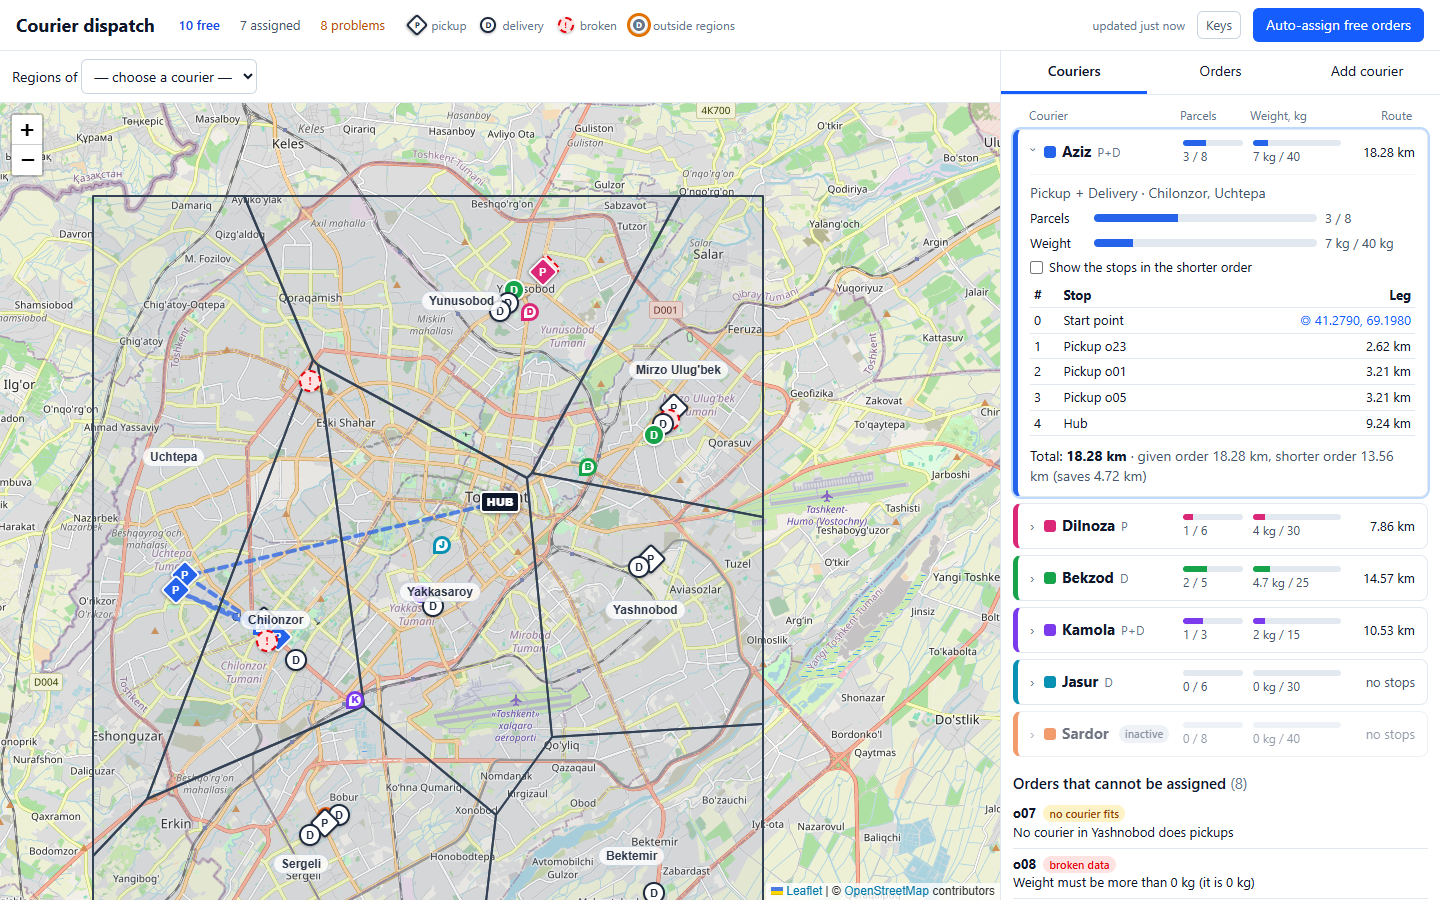
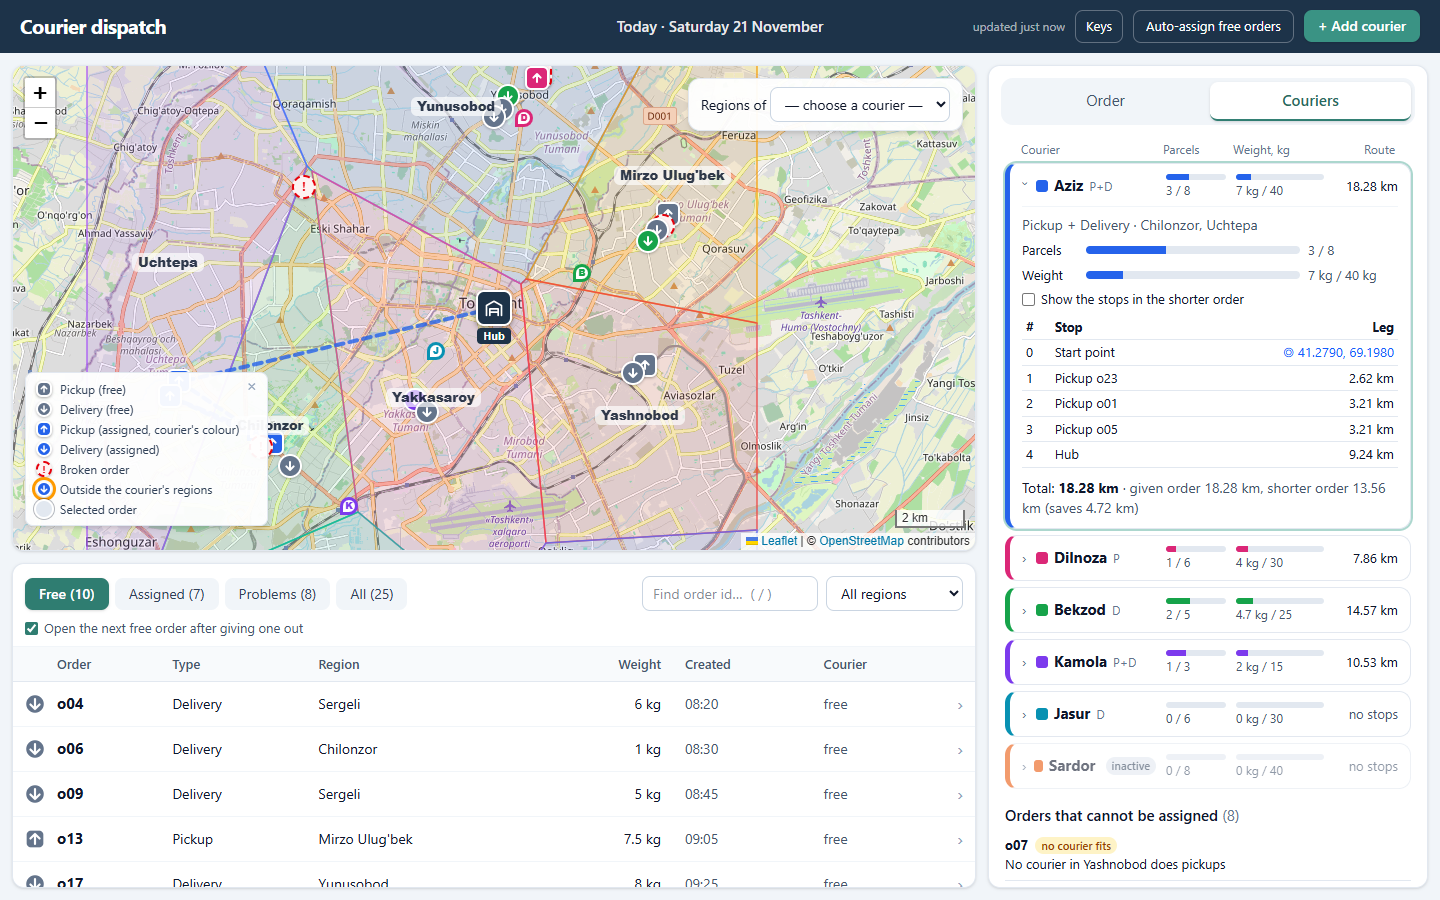
README and after screenshots for the new look

diff --git a/README.md b/README.md
@@ -50,16 +50,16 @@ cd backend && go test ./...
 
 ## Page addresses
 
-Each view of the page has its own link, so it can be shared, reloaded or reached with the browser's back button:
+Each view of the page has its own link, so it can be shared, reloaded or reached with the browser's back button. The order table's filter stays in the query string on every one of them:
 
 | Address | What it shows |
 | --- | --- |
-| `/couriers` | courier panel (`/` and unknown addresses redirect here) |
+| `/couriers` | courier panel |
 | `/couriers/c1` | courier panel, with that courier's route drawn on the map |
-| `/couriers/new` | the add-courier form; clicks on the map set the start point |
-| `/orders` | order list: free orders, oldest first |
+| `/couriers/new` | the add-courier form ("+ Add courier" in the header); clicks on the map set the start point |
+| `/orders` | no order open; the table under the map shows free orders, oldest first (`/` and unknown addresses redirect here) |
 | `/orders?show=problem&region=Chilonzor&q=o1` | the list's filter (`free`, `taken`, `problem`, `all`), region and id search |
-| `/orders/o12` | order list with that order open, ready to assign |
+| `/orders/o12` | that order open in the right panel, ready to assign |
 
 The Go server sends the page for any address that is not a file or `/api/...`, so these links also work after a reload in the Docker build.
 
@@ -149,13 +149,13 @@ Other things in the data:
 - **Auto-assign** (button at the top right). It takes every free, valid order, oldest first, and gives it to the allowed courier for whom it is **nearest**. Orders already assigned are not touched. Orders it cannot place are listed with the reason: either the permanent reason (region, kind, inactive, weight) or "Every courier allowed to take it is full: …" with each courier's limit.
   - **How "nearest" is chosen:** the courier whose route grows the least, in km, when the order is added at the end of their pickups or deliveries. I picked this over "closest start point" because it accounts for where the courier already has to go, including the trip to the hub. For a courier with no orders it is roughly start → order → hub. Ties go to the courier who comes first in the list.
   - It is greedy and does not look ahead: an early order may take the last free space that a later order needed more.
-- **Reassign:** in the open order, click another courier under "Move to", or press "Take off". Undo puts it back.
+- **Reassign:** in the open order, choose another courier under "Move to" and press "Move to …", or press "Take off". Undo puts it back.
 - **Better routes:** each courier card shows the km in the given order and in a shorter order. A checkbox switches the stop list and the map line to the shorter order. Pickups stay before the hub and deliveries after it. Each part is solved exactly by trying every order when it has 7 stops or fewer, and otherwise by nearest neighbour followed by 2-opt. The shorter order is only shown, never saved: the rule says the route follows the order given.
 - **Docker:** `docker compose up --build` builds the page and the server into one image.
 
 ## Dispatcher page improvements
 
-The follow-up task asked for a page that a dispatcher can use all working day: better layout, easier reading, and fewer steps to assign an order. These are the changes and the reason for each one.
+The follow-up task asked for a page that a dispatcher can use all working day: better layout, easier reading, and fewer steps to assign an order. These are the changes and the reason for each one. The look (dark header, map over the order table, order panel with courier cards and one big button) follows mockups I was given. The texts stay in English like the rest of the project, including the server's messages.
 
 ### Before and after
 
@@ -172,39 +172,42 @@ The data is the same in both: seven orders given out by hand ([how the screensho
 
 | Way of working | Before | After |
 | --- | --- | --- |
-| Going through the free orders | Orders tab → scroll to the order → click it → open the courier select → pick a courier → Assign: **5 actions per order** | the next free order is already open → click a courier or press its number: **1 action per order** |
-| From a pin on the map | pin → open the select → pick a courier → Assign: **4** | pin → click a courier: **2** |
+| Going through the free orders | Orders tab → scroll to the order → click it → open the courier select → pick a courier → Assign: **5 actions per order** | the next free order is already open and the nearest courier already chosen → "Give to Bekzod" or Enter: **1 action per order** |
+| From a pin on the map | pin → open the select → pick a courier → Assign: **4** | pin → "Give to …": **2** (3 when choosing someone other than the nearest) |
 | Undoing a wrong click | find the order → open the select → pick the old courier → Move: **4** | Undo in the message, or the U key: **1** |
 
 ### Fewer steps
 
-1. **The courier select became a list of couriers to click.** It is the biggest change. The couriers allowed to take the order are buttons, and one click assigns the order. Each button shows the km the order adds to that courier's route and the load the courier would have after it. The courier who is nearest by the auto-assign rule (least km added) is on top and marked "nearest". Couriers who cannot take the order are folded under "N couriers cannot take it", each with the server's reason. They can still be clicked, and the server then refuses in its own words, as before.
-   - The list comes from a new endpoint, `GET /api/orders/{id}/candidates`. The server works it out with the same `CanTake` and the same km function as auto-assign. Before, the page repeated the rules in TypeScript (`quickCheck`) to show its hints. That copy is gone, so a hint can no longer disagree with the server. Auto-assign now picks the courier marked "nearest" in this list, so the two always agree (`domain.Candidates`).
-2. **The next free order opens by itself.** When an order gets its first courier, the next free order that someone can take opens, further down the list the dispatcher is looking at (so a region filter is respected). A checkbox turns this off, for anyone who prefers to work from the map. The choice is remembered in the browser. Moving an order or taking it off does not jump.
+1. **The courier select became a card per courier, with the nearest one already chosen.** It is the biggest change. Under "Who gets it" every courier has a card. A card for an allowed courier shows the load they would have after the order (parcels and kg) and the km the order adds to their route. The nearest one by the auto-assign rule (least km added) is on top, marked "nearest" and chosen at first. A big button under the cards says what will happen: "Give to Bekzod". For most orders the dispatcher only presses it, or Enter. Couriers who cannot take the order are greyed, with the server's reason on the card. They can still be chosen, and the button then says "Try Kamola anyway", so the server refuses in its own words, as before.
+   - The cards come from a new endpoint, `GET /api/orders/{id}/candidates`. The server works it out with the same `CanTake` and the same km function as auto-assign. Before, the page repeated the rules in TypeScript (`quickCheck`) to show its hints. That copy is gone, so a hint can no longer disagree with the server. Auto-assign now picks the courier marked "nearest" here, so the two always agree (`domain.Candidates`).
+2. **The next free order opens by itself.** When an order gets its first courier, the next free order that someone can take opens, further down the table the dispatcher is looking at (so a region filter is respected). A checkbox turns this off, for anyone who prefers to work from the map. The choice is remembered in the browser. Moving an order or taking it off does not jump.
 3. **Undo.** The message after assign, move or take off has an Undo button for 8 seconds (also the U key). With one-click assigning, a wrong click is more likely, and undo has to be just as cheap. Undo is an ordinary request, so the server checks it again. If the old courier filled up in the meantime, the message says so.
    - Decision: an order that Undo moves back goes to the **end** of the old courier's route, because the route follows the time of assignment. Keeping the old place would mean a second, hidden rule for route order.
-4. **Keyboard.** `↓`/`↑` (or `J`/`K`) move through the list, `1`–`9` give the open order to that courier (the numbers are on the buttons), `U` undoes, `Esc` closes the order, `/` jumps to the search. The keys do nothing while you type in a field. A "Keys" button in the header lists them.
+4. **Keyboard.** `↓`/`↑` (or `J`/`K`) move through the table, `Enter` gives the open order to the chosen courier, `1`–`9` give it straight to that allowed courier (the numbers are on the cards), `U` undoes, `Esc` closes the order, `/` jumps to the search. The keys do nothing while you type in a field. A "Keys" button in the header lists them.
 
 ### Layout
 
-5. **The courier panel is one line per courier:** name, kinds, a parcel bar, a weight bar and total km. All six couriers fit on one screen, so "who still has room" can be seen at a glance. Clicking a line opens the full card (regions, load, stops, km) and draws the route on the map. Opening a card and showing its route were already one address (`/couriers/c1`), and now they are one click too. Inactive couriers go to the bottom. The "shorter order" switch moved into the open card, where it applies.
-6. **The order list opens on Free, oldest first.** Free orders are the work still to do, and oldest first is the order auto-assign uses. Each filter shows a count, and there are an id search and a region filter. The creation time is shown (in Tashkent time). Filter, region and search are kept in the address, so a reload or a shared link keeps them, like every other view of the page.
-7. **The header counts are links:** "10 free", "7 assigned" and "8 problems" open the matching list.
-8. **The map helps choose.** While an order is open, the start pins of the couriers allowed to take it grow and the other couriers fade. When an order is picked in the list and its pin is off screen, the map pans to it (the zoom stays).
-9. **The data refreshes by itself** every 15 seconds and when the tab gets focus. The header shows "updated N s ago", in amber when the data is more than a minute old. Before, the page only reloaded after the dispatcher's own changes, so changes by a second dispatcher stayed invisible.
+5. **Map on top, order table under it, the open order on the right.** Before, the orders, the couriers and the add-courier form shared one side panel, so looking at the list hid the couriers and the other way round. Now the order table is always on screen under the map, and the right panel has two tabs: **Order** (the open order and who gets it) and **Couriers**. Adding a courier is the "+ Add courier" button in the header, and the form opens in the right panel. `/` now opens the orders, the dispatcher's main work.
+6. **The dark header** holds the page name, today's date (Tashkent time), how fresh the data is, the keys, auto-assign and "+ Add courier". The pin legend moved from the header onto the map's bottom-left corner, next to what it explains. It can be folded away (remembered), and the map moves a picked order out from under it.
+7. **The map reads faster.** Each region has its own soft colour, so neighbouring districts are easy to tell apart. Pins carry an arrow: a square with an up arrow is a pickup (the parcel goes to the hub), a circle with a down arrow is a delivery. Free orders are grey, assigned ones take the courier's colour (the original task asks for that), broken ones are red and dashed. The selected order is larger, with its id above it. The hub is a warehouse badge. A scale bar shows distances. The region bar floats on the map instead of taking a row above it.
+8. **The courier panel is one line per courier:** name, kinds, a parcel bar, a weight bar and total km. All six couriers fit on one screen, so "who still has room" can be seen at a glance. Clicking a line slides the full card open (regions, load, stops, km) and draws the route on the map. Inactive couriers go to the bottom. The "shorter order" switch moved into the open card, where it applies.
+9. **The order table opens on Free, oldest first.** Free orders are the work still to do, and oldest first is the order auto-assign uses. The pills show counts (Free (10), Assigned (7), Problems (8), All (25)), and there are an id search and a region filter. The creation time is shown (in Tashkent time). The data has no street addresses, so the table has no address column. Filter, region and search are kept in the address, so a reload or a shared link keeps them, like every other view of the page.
+10. **The map helps choose.** While an order is open, the start pins of the couriers allowed to take it grow and the other couriers fade. When an order is picked in the table and its pin is off screen or under the legend, the map pans to it (the zoom stays).
+11. **The data refreshes by itself** every 15 seconds and when the tab gets focus. The header shows "updated N s ago", in amber when the data is more than a minute old. Before, the page only reloaded after the dispatcher's own changes, so changes by a second dispatcher stayed invisible.
 
 ### Reading
 
-10. **Text is 14px instead of the browser's 16px mixed with 13px**, and grey text is darker (slate-600 instead of slate-500). Numbers use tabular figures, so km and kg line up in columns.
-11. **One colour per status, everywhere:** red only for broken data, amber for "no courier fits" and "outside regions" (before, "no courier fits" was red like broken data), the courier's colour for assigned orders, grey for free.
-12. The region bar above the map has a **Done** button to stop editing. Before, the only way out was to choose "— choose a courier —" in the select.
+12. **Text is 14px instead of the browser's 16px mixed with 13px**, and grey text is darker (slate-600 instead of slate-500). The order title, the order's kind, parcel and weight, and the courier names on the cards are large. Numbers use tabular figures, so km and kg line up in columns. The side panel and the table scroll without drawing scroll bars.
+13. **One colour per status, everywhere:** red only for broken data, amber for "no courier fits" and "outside regions" (before, "no courier fits" was red like broken data), the courier's colour for assigned orders, grey for free. Teal is used only for actions and for what is chosen.
+14. The region bar has a **Done** button to stop editing. Before, the only way out was to choose "— choose a courier —" in the select.
 
 ### What I did not change, and why
 
-- **Drag-and-drop of an order onto a courier:** slower than a click or a number key, awkward on a touchpad, and much more code.
+- **Drag-and-drop of an order onto a courier:** slower than a click or a key, awkward on a touchpad, and much more code.
 - **Region editing** stays as it was (a select, then clicks on the map). It already worked in a few clicks, and the original task asked for exactly this select.
-- **A dark theme, other languages, a phone layout for the dispatcher:** a dispatcher works at a desk. The phone page is for couriers (the second part of the task).
-- **Frontend tests**, for the same reason as before: the rules live on the server. The new endpoint has Go tests, and I drove the new flow in a headless browser: ↓ opens o23 (the oldest), key 1 gives it to Aziz and opens o01, U takes it back, and clicking Kamola for o12 shows "Kamola does not work in Bektemir".
+- **Russian texts from the mockups:** the project, its server messages and its tests are in English, and mixing languages would be worse than either.
+- **A dark theme, a phone layout for the dispatcher:** a dispatcher works at a desk. The phone page is for couriers (the second part of the task).
+- **Frontend tests**, for the same reason as before: the rules live on the server. The new endpoint has Go tests, and I drove the new flow in a headless browser: ↓ opens o23 (the oldest) with Aziz chosen, Enter gives it to him and opens o01, U takes it back, and choosing Kamola for o12 and pressing "Try Kamola anyway" shows "Kamola does not work in Bektemir".
 
 ### How the screenshots were taken
 
@@ -269,7 +272,7 @@ backend/
 ```
 frontend/src/
   main.tsx                  entry: router + App
-  app/                      App (loading), Dashboard (layout), Header, UpdatedAgo, KeysHelp, SideTabs,
+  app/                      App (loading), Dashboard (layout), Header, UpdatedAgo, KeysHelp, SideTabs (Order / Couriers),
                             SidePanelRoutes, routes.ts (addresses), useAppRoute (address → selection)
   api/                      client.ts (fetch + ApiError), dispatchApi.ts (endpoints), types.ts (JSON shapes)
   config/env.ts             VITE_* settings from .env
@@ -277,14 +280,16 @@ frontend/src/
   hooks/                    shared: useDispatchState (TanStack Query, reloads every 15 s), useStateMutation (change + reload),
                             useToast (with Undo), useHotkeys, useStoredFlag
   features/                 one folder per part of the page, one component per file
-    map/                    MapView, RegionsLayer, OrderMarker, MapClickCatcher, KeepInView, Legend, mapStyles.ts
+    map/                    MapView, RegionsLayer, OrderMarker, MapClickCatcher, KeepInView, Legend (on the map), mapStyles.ts
     regions/                RegionEditor, RegionChip, useRegionEditor
     couriers/               CourierPanel, CourierCard, MiniMeter, LoadMeter, RouteStops, StopLabel, RouteTotal, UnassignableList
-    orders/                 OrdersPanel, OrderFilters, OrderRow, OrderStatus, AssignBox, OrderDetails,
-                            CandidateList, useCandidates, useOrderActions, useOrderQuery, orderFilter.ts
+    orders/                 OrdersTable (under the map), OrderFilters, OrderRow, OrderStatus, OrderPanel (right),
+                            AssignBox, OrderDetails, CandidatePicker, useOrderList, useCandidates, useOrderActions,
+                            useOrderQuery, orderFilter.ts
     add-courier/            AddCourierForm, useCourierForm (React Hook Form + zod schema from domain/courierForm.ts)
     auto-assign/            AutoAssignReport, useAutoAssign
-  shared/ui/                Button, Card, CardHeader, Tag, Alert, Toast, Swatch, Checkbox, FormField, styles.ts
+  shared/ui/                Button, Card, CardHeader, Tag, Alert, Toast, Swatch, Checkbox, FormField, icons, arrowPath, styles.ts
+                            (colours: teal `brand-*` and `navy-*` tokens in index.css)
 data/                       data.json, regions.geojson (seed)
 ```
 
@@ -294,4 +299,4 @@ Imports use the `@/` alias for `src/`. Components only draw; state and server ca
 
 - **Time:** _fill in_.
 - **AI:** I built this with Claude Code (an AI coding assistant). It read the task, wrote the backend, tests, frontend and this README, and checked the page in a headless browser. I reviewed the decisions above and the commits.
-- **AI, follow-up task:** I used Claude Code the same way. I went through each possible change with it before any code was written, then chose the set above. It took the "before" screenshots first, then wrote the candidates endpoint and its tests, the page changes and this section, drove the new flow in a headless browser, and took the "after" screenshots with the same script.
+- **AI, follow-up task:** I used Claude Code the same way. I went through each possible change with it before any code was written, then chose the set above. It took the "before" screenshots first, then wrote the candidates endpoint and its tests, the page changes and this section, drove the new flow in a headless browser, and took the "after" screenshots with the same script. When I gave it mockups of the look I wanted, it rebuilt the layout after them (keeping English) and retook the "after" screenshots.
